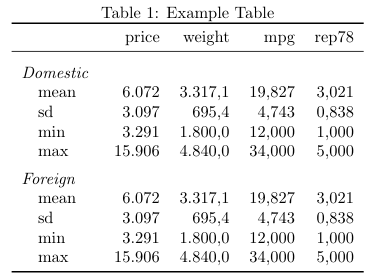
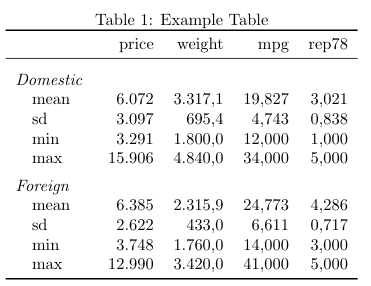
new structure and add gitignore

diff --git a/README.md b/README.md
@@ -1,14 +1,17 @@
-# mat2tex: a command to export a stata matrix to a body of a latex table 
 
 - [mat2tex: a command to export a stata matrix to a body of a latex table](#mat2tex-a-command-to-export-a-stata-matrix-to-a-body-of-a-latex-table)
 - [Motivation](#motivation)
 - [Installation](#installation)
 - [Usage](#usage)
   - [Simple use case](#simple-use-case)
-  - [All in one (a little) complex option](#all-in-one-a-little-complex-option)
   - [Appending group by group (a little) complex option](#appending-group-by-group-a-little-complex-option)
+  - [All in one (a little more) complex option](#all-in-one-a-little-more-complex-option)
 - [Syntax and options](#syntax-and-options)
 - [Acknowledgements](#acknowledgements)
+
+mat2tex: a command to export a stata matrix to a body of a latex table 
+======================================================================
+
 
 # Motivation 
 
@@ -123,7 +126,65 @@ there are two groups of variables being displayed. In these cases, either use
 [frmttable](http://fmwww.bc.edu/RePEc/bocode/f/frmttable.html) or other package
 or try one of the more complex possibilities as shown in the next sections.
 
-## All in one (a little) complex option 
+
+
+## Appending group by group (a little) complex option 
+
+The other option is to divide (or just not merge) stata's matrix into each group
+and append each table accordingly. This might be better suited if it is easy to
+keep the stata matrices apart from the start. The grouptitle function comes
+in handy here.
+
+```stata
+mat group_1 = r(Stat1)
+local gt  "\rowgroupemph{Domestic}\\" // just to show that locals can be used too
+mat2tex using table_example, matrix(group_1) replace  ///
+    format(%9.0fc %9.1fc %9.3fc %9.3fc) grouptitle(`gt')
+
+mat group_2 = r(Stat2)
+mat2tex using table_example, matrix(group_2) append  notiming ///
+    format(%9.0fc %9.1fc %9.3fc %9.3fc) grouptitle(\rowgroupemph{Foreign}\\)
+```
+For that, you will need a table in latex such as the following. 
+
+```
+% 30 Mar 2020 | 20:59:06 
+%       & price & weight        & mpg   & rep78 & 
+\rowgroupit{Domestic}\\
+mean    &     6.072     &   3.317,1     &      19,8     &     3,021 \\
+sd      &     3.097     &     695,4     &       4,7     &     0,838 \\
+min     &     3.291     &   1.800,0     &      12,0     &     1,000 \\
+max     &    15.906     &   4.840,0     &      34,0     &     5,000 \\
+%       & price & weight        & mpg   & rep78 & 
+\rowgroupit{Foreign}\\
+mean    &     6.385     &   2.315,9     &      24,8     &     4,286 \\
+sd      &     2.622     &     433,0     &       6,6     &     0,717 \\
+min     &     3.748     &   1.760,0     &      14,0     &     3,000 \\
+max     &    12.990     &   3.420,0     &      41,0     &     5,000 \\
+```
+
+```latex
+% include command in preamble or before table
+\newcommand{\rowgroupemph}[1]{\hspace{-1em}\emph{#1} \rule{0pt}{3ex} }
+% ...
+\begin{table}
+\centering
+    \caption{Example Table}
+    \begin{tabular}{ >{\quad}l rr rr }
+    \toprule
+    %% here you include the table headers by hand
+    & price         & weight                & mpg           & rep78 \\
+    \midrule
+    \input{table_example.tex} % include table file
+    \bottomrule 
+    \end{tabular}%
+\end{table}%
+```
+
+![Table with two groups](./assets/tab_two_groups.png)
+
+
+## All in one (a little more) complex option 
 
 ```stata
 sysuse auto
@@ -157,25 +218,10 @@ sd      &     2.622     &     433,0     &     6,611     &     0,717 \\
 min     &     3.748     &   1.760,0     &    14,000     &     3,000 \\
 max     &    12.990     &   3.420,0     &    41,000     &     5,000 \\
 ```
-For that, you will need a table in latex such as the following. 
 
-```latex
-% include command in preamble or before table
-\newcommand{\rowgroupemph}[1]{\hspace{-1em}\emph{#1} \rule{0pt}{3ex} }
-% ...
-\begin{table}
-\centering
-    \caption{Example Table}
-    \begin{tabular}{ >{\quad}l rr rr }
-    \toprule
-    %% here you include the table headers by hand
-    & price         & weight                & mpg           & rep78 \\
-    \midrule
-    \input{table_example.tex} % include table file
-    \bottomrule 
-    \end{tabular}%
-\end{table}%
-```
+
+It will produce such a table (The latex structure and the compiled PDF will be
+the same as the ones above):
 
 ![Table with two groups](./assets/tab_two_groups.png)
 
@@ -193,44 +239,9 @@ group and passing the group title as argument for the `\rowgroupemph` latex
 command (that has to be added to the preample or somewhere before the table),
 such as `"\rowgroupemph{Domestic} \\ mean"`.  
 
-
-## Appending group by group (a little) complex option 
-
-The other option is to divide (or just not merge) stata's matrix into each group
-and append each table accordingly. This might be better suited if it is easy to
-keep the stata matrices apart from the start. The grouptitle function comes
-in handy here.
-
-```stata
-mat group_1 = r(Stat1)
-local gt  "\rowgroupemph{Domestic}\\" // just to show that locals can be used too
-mat2tex using table_example, matrix(group_1) replace  ///
-    format(%9.0fc %9.1fc %9.3fc %9.3fc) grouptitle(`gt')
-
-mat group_2 = r(Stat2)
-mat2tex using table_example, matrix(group_2) append  notiming ///
-    format(%9.0fc %9.1fc %9.3fc %9.3fc) grouptitle(\rowgroupemph{Foreign}\\)
-```
-
-It will produce such a table (The latex structure and the compiled PDF will be
-the same as the ones above):
-
-```
-% 30 Mar 2020 | 02:52:06 
-%       & price & weight        & mpg   & rep78 & 
-\rowgroupemph{Domestic}\\
-mean    &     6.072     &   3.317,1     &    19,827     &     3,021 \\
-sd      &     3.097     &     695,4     &     4,743     &     0,838 \\
-min     &     3.291     &   1.800,0     &    12,000     &     1,000 \\
-max     &    15.906     &   4.840,0     &    34,000     &     5,000 \\
-%       & price & weight        & mpg   & rep78 & 
-\rowgroupemph{Foreign}\\
-mean    &     6.385     &   2.315,9     &    24,773     &     4,286 \\
-sd      &     2.622     &     433,0     &     6,611     &     0,717 \\
-min     &     3.748     &   1.760,0     &    14,000     &     3,000 \\
-max     &    12.990     &   3.420,0     &    41,000     &     5,000 \\
-```
-
+This explanation is mainly here to show that with a little tinkering, one can
+still produce slightly more complex tables with `mat2tex`. Bud just because you
+can, does not mean you should! 
 
 Another option would be create multiple sub-tables in separated files and merge
 them back together in the LaTeX project via multiple `\input{}`.
@@ -243,7 +254,9 @@ them back together in the LaTeX project via multiple `\input{}`.
 
 - `replace` Replaces existing filename (or writes a new, if inexistent).
 
-- `append` Appends table to existing filename.
+- `append` Appends table to existing filename. This can be useful when creating
+  a single table from multiple matrices. `grouptitle` option can be useful to
+  create a group separation within the table body.
 
 - `notiming` Do not include date and time of table creation, which is included by
 default.
